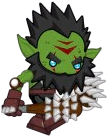
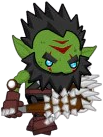
Images and code for animation added

diff --git a/Culminating Project/Orc.java b/Culminating Project/Orc.java
@@ -1,19 +1,103 @@
 import greenfoot.*;  // (World, Actor, GreenfootImage, Greenfoot and MouseInfo)
 
 /**
- * Write a description of class Orc here.
- * 
- * @author (your name) 
- * @version (a version number or a date)
+ * Animations using arrays of images.
  */
 public class Orc extends Actor
 {
     /**
-     * Act - do whatever the Orc wants to do. This method is called whenever
-     * the 'Act' or 'Run' button gets pressed in the environment.
+     * Movement variables.
      */
-    public void act() 
+    boolean isFacingRight = true;
+    
+    /**
+     * Animation variables.
+     */
+    int animationInterval = 10;  // Number of frames between animation images.
+    int frameCounter = 0;       // Frame counter. For animations.
+    
+    /**
+     * Arrays for animation images.
+     */
+    GreenfootImage[] imagesWalkRight;
+    GreenfootImage[] imagesWalkLeft;
+    GreenfootImage[] imagesIdleRight;
+    GreenfootImage[] imagesIdleLeft;
+    
+    
+    public Orc()
     {
-        // Add your action code here.
-    }    
+        loadImages();
+    }
+    
+    
+    public void act()
+    {
+        if (Greenfoot.isKeyDown("right"))
+        {
+            isFacingRight = true;
+            animate(imagesWalkRight);
+        }
+        else if (Greenfoot.isKeyDown("left"))
+        {
+            isFacingRight = false;
+            animate(imagesWalkLeft);
+        }
+        else if (isFacingRight == true)
+        {
+            animate(imagesIdleRight);
+        }
+        else
+        {
+            animate(imagesIdleLeft);
+        }
+    }
+    
+    
+    /**
+     * Animates using the specified images.
+     */
+    void animate(GreenfootImage[] images)
+    {
+        if (frameCounter >= images.length * animationInterval)  // Greater or equal (>=) takes care of animations with different number of images.
+        {
+            frameCounter = 0;
+        }
+        
+        if (frameCounter % animationInterval == 0)  // If it's time to switch to next animation image.
+        {
+            setImage(images[frameCounter/animationInterval]);
+        }
+        
+        frameCounter++;
+    }
+    
+    
+    /**
+     * Loads images used for animations.
+     */
+    void loadImages()
+    {
+        imagesWalkRight = new GreenfootImage[6];
+        imagesWalkLeft = new GreenfootImage[6];
+        imagesIdleRight = new GreenfootImage[4];
+        imagesIdleLeft = new GreenfootImage[4];
+        
+        for (int i = 0; i < imagesWalkRight.length; i++)
+        {
+            // Assuming the image files are tile0.png, tile1.png, etc.
+            String imagePath = "images/Orc_Walk" + i + ".png";
+            imagesWalkRight[i] = new GreenfootImage(imagePath);
+            imagesWalkLeft[i] = new GreenfootImage(imagePath);
+            imagesWalkLeft[i].mirrorHorizontally();
+        }
+        for (int i = 0; i < imagesIdleRight.length; i++)
+        {
+            // Again, assuming the image files are tile0.png, tile1.png, etc.
+            String imagePath = "3 SteamMan/Idle/tile" + i + ".png";
+            imagesIdleRight[i] = new GreenfootImage(imagePath);
+            imagesIdleLeft[i] = new GreenfootImage(imagePath);
+            imagesIdleLeft[i].mirrorHorizontally();
+        }
+    }
 }

diff --git a/Culminating Project/MyWorld.java b/Culminating Project/MyWorld.java
@@ -17,5 +17,6 @@ public class MyWorld extends World
     {    
         // Create a new world with 600x400 cells with a cell size of 1x1 pixels.
         super(600, 400, 1); 
+        
     }
 }
